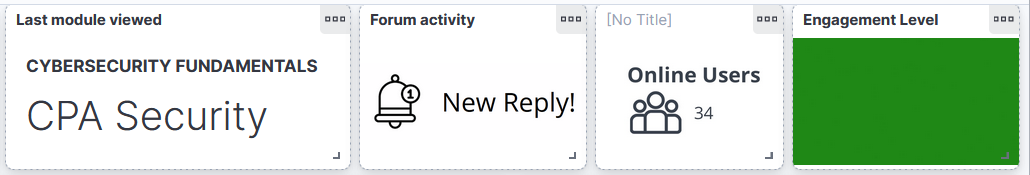
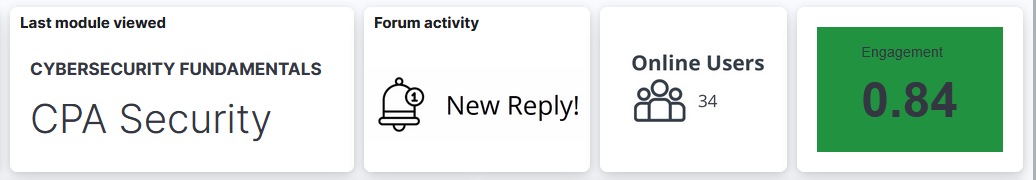
dashboard 1

diff --git a/SAReport/chapters/dashboard.tex b/SAReport/chapters/dashboard.tex
@@ -38,14 +38,26 @@ In this way, the \textbf{Wrong Mental Model} demon is avoided.
     \label{fig:dashboard_1}
 \end{figure}
 
-Now is analyzed the different parts of the dashboard, discovering which
-elements allow to achieve the goal of the student and which of them guarantee the
-global situation of the student. The \textbf{subgoal 1.2.1} is guaranteed by the linear graph,
-which shows the student's time spent on the platform since the start of
-the process of upskilling. Also, this subgoal is guaranteed by the table containing the activity of the
-student on the forum, showing how many questions the student asked, how many
-answers received and how many answers the student has given. 
-Both the elements are shown in the following figure.
+In order to guarantee the \textbf{Principle 4}, the dashboard should be designed to have the
+elements supporting the goals in the middle of the dashboard, surrounded by elements helping the
+global picture of the student. But to ensure the dashboard
+is coherent with what a student expects to see when he/she visits an e-learning system, as 
+can be seen from the previous image, in the middle of the screen is present a matrix containing 
+the different courses the student has to complete to upskill himself/herself. In this matrix is 
+shown the percentage of completion of each course allowing the student to immediately know his/her
+situation, thus supporting the student's global view of his/her situation. Related to this element, hence
+helping in forming the right global situation awareness of the student, on 
+the right side is present a spider chart showing the results of the student on the theory tests and
+the exercises tests, weighted on the number of tests completed for the course.
+Instead, on the left side of the screen, is present a
+donut chart, which shows how many different resources are available for the different courses 
+the student has used, in order to support the \textbf{subgoal 1.2.2}.
+
+The linear graph, which shows the student's time spent on the platform since the start of
+the process of upskilling supports the \textbf{subgoal 1.2.1}. Another support to this subgoal
+is given by the table containing the activity of the student on the forum, showing how many questions 
+the student asked, how many answers received and how many answers the student has given. Both the 
+elements are shown in the following figure.
 
 \begin{figure}[H]
     \centering
@@ -55,27 +67,7 @@ Both the elements are shown in the following figure.
 \end{figure}
 
 
-The \textbf{subgoal 1.2.2} is guaranteed by the donut chart, which shows how many
-different resources are available for the different courses the student has
-used. The other element contributing to this subgoal is the matrix containing
-the different courses the student has to complete to upskill himself/herself,
-in this matrix is shown the percentage of completion of each course. These elements
-are shown in the following figure.
-
-\begin{figure}[H]
-    \centering
-    \includegraphics[width=0.9\textwidth]{assets/dashboard_1_122.png}
-    \caption{Dashboard I - Subgoal 1.2.2}
-    \label{fig:dashboard_1_subgoal_122}
-\end{figure}
-
-The four elements described above occupy the majority of the dashboard on 
-the left side of the screen allowing the student to have a clear and complete
-understanding of his/her engagement with the platform and how he/she has to
-adapt his/her learning path, hence supporting the student's goals. 
-
-The remaining part of the dashboard, following the
-\textbf{Principle 4}, contains different elements that remind the student
+The remaining part of the dashboard contains different elements that remind the student
 situation regarding the subgoals of the first major goal (how he/she is upgrading 
 his/her skill). 
 

diff --git a/SAReport/chapters/CST.tex b/SAReport/chapters/CST.tex
@@ -7,9 +7,6 @@ Multidimensional spaces are called \textit{Context Spaces}. Context features are
 The set of situations that may occur is called \textit{Situation Space}.
 
 \section{CST For Engagement Level}
-%% NOTE:
-% E' scritto che la CST è mostrata sulla dashboard con un badge (potrebbe essere una ripetizione)
-% Colore del badge (grigio) per meno di 7 giorni
 We decided to use the CST to assess the student's engagement level on the platform. 
 This is a particularly useful parameter to show the user whether his/her use of the 
 platform complies with the requirements and is shown on the dashboard through a badge. \\
@@ -107,7 +104,7 @@ Each context attribute has an associated weight. F\_SL, F\_FQ and F\_M are consi
 
 To calculate the situation a student is in, we use the following formula:
 \[ 
-S = \sum_i CA_i \cdot w_i 
+S = \sum_{i=1}^3  w_i \cdot CA_i  
 \]
 Where:
 \begin{itemize}
@@ -121,7 +118,7 @@ S = w_{SL} \cdot F\_SL + w_{FQ} \cdot F\_FQ + w_{NA} \cdot F\_NA + w_M \cdot F\_
 \]
 
 \section{Simulation}
-We ran a simulation on two time intervals. The first data is taken after 7 days from when 
+We simulated on two time intervals. The first data is taken after 7 days from when 
 the users signed up in the platform (for simplicity, we will refer to this data as "week 1"), 
 while the second taking was done after 12 days (for simplicity, we will say "week 2"). Six users 
 are considered.\\

diff --git a/SAReport/chapters/datadescription.tex b/SAReport/chapters/datadescription.tex
@@ -16,10 +16,10 @@ The dataset is composed of the following tables:
 \begin{itemize}
     \item 
         \textbf{Completed Course:} This table indicates whether the user has completed something each 
-        day or not for the different courses, the CSV file is named \textit{./dashboard\_1/completed\_course\_names.csv};
+        day or not for the different courses, the CSV file is named \\ \textit{./dashboard\_1/completed\_course\_names.csv};
     \item 
         \textbf{Completed Modules:} This table indicates whether the user has completed something each 
-        day or not for the different modules, the CSV file is named \textit{./dashboard\_2/CourseCompletation.csv};
+        day or not for the different modules, the CSV file is named \\ \textit{./dashboard\_2/CourseCompletation.csv};
     \item 
         \textbf{User Hours Sessions:} This table represents the hours spent by the user on the platform 
         each day and the average hours spent by other users, the CSV file 
